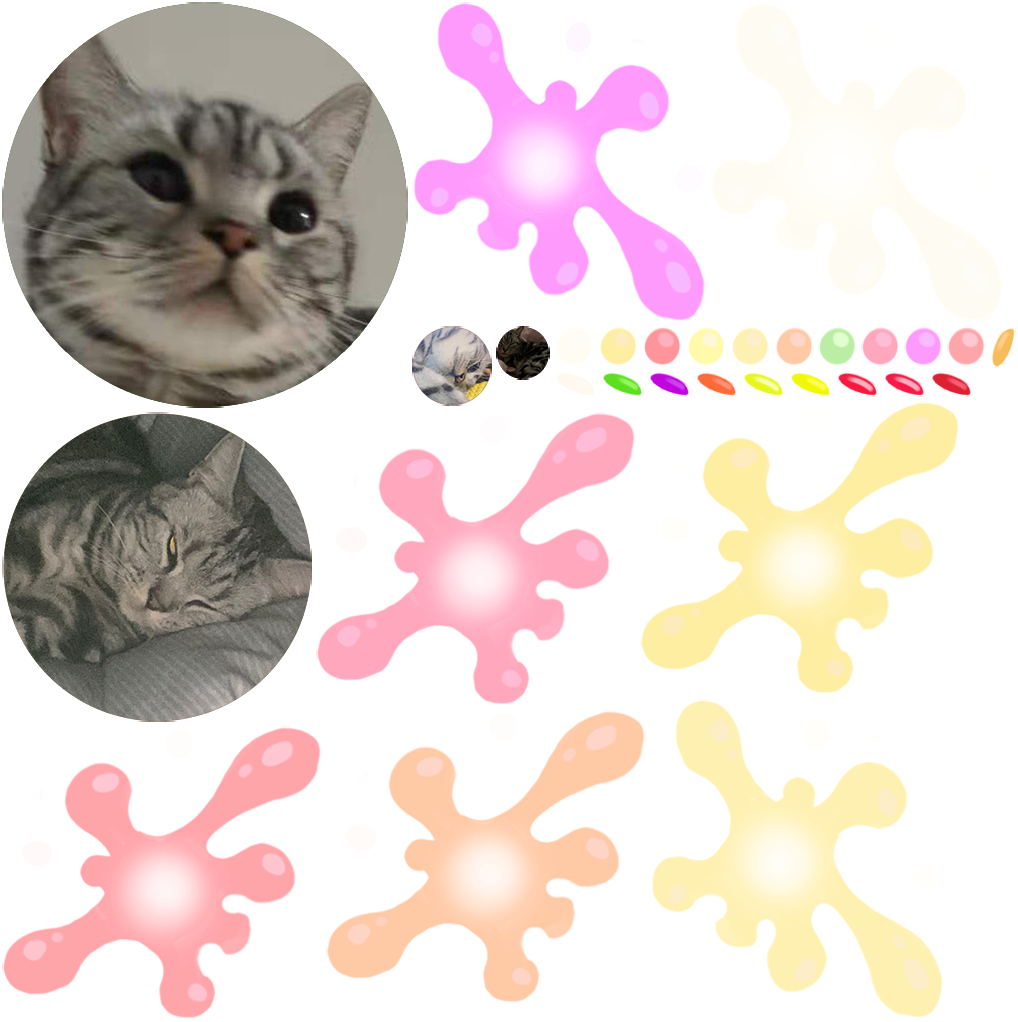
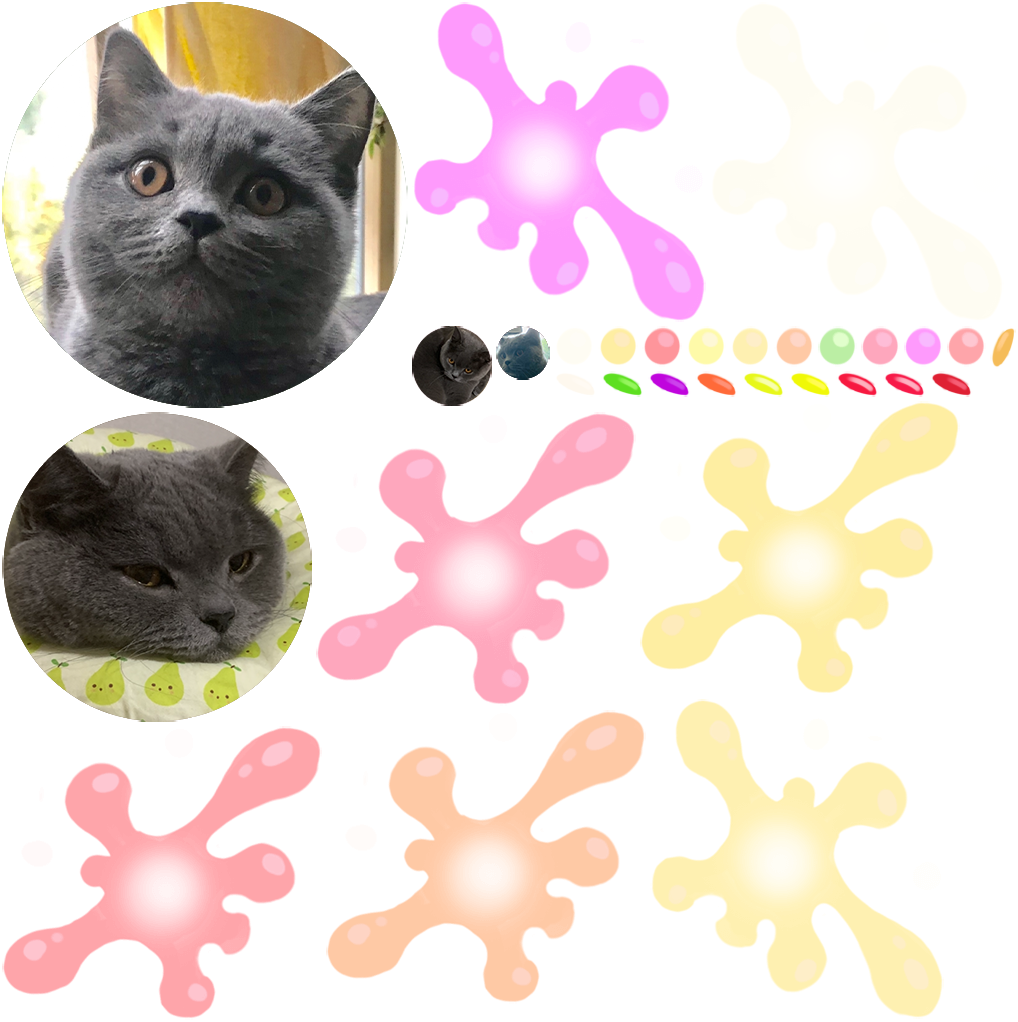
mimimimimimimi

Changed region(s): [[0.0, 0.0, 0.4263, 0.728], [0.3959, 0.3033, 0.5481, 0.3943]]

diff --git a/Downloads/sannaha.github.io-master/index.html b/Downloads/sannaha.github.io-master/index.html
@@ -4,7 +4,7 @@
 <head>
     <meta charset="utf-8">
 
-    <title>合成大小猫</title>
+    <title>咪一米养成记</title>
 
     <!--http://www.html5rocks.com/en/mobile/mobifying/-->
     <meta name="viewport" content="width=device-width,user-scalable=no,initial-scale=1, minimum-scale=1,maximum-scale=1" />
@@ -109,7 +109,7 @@
             //        console.log("window.navigator.language",window.navigator.language);
 
             if (window.navigator.language == "zh-CN" || window.navigator.language == "zh-cn") {
-                document.title = "合成大小猫";
+                document.title = "咪一米养成记";
             } 
 
 

diff --git a/Downloads/sannaha.github.io-master/README.md b/Downloads/sannaha.github.io-master/README.md
@@ -1,4 +1,3 @@
-# 合成大欧派（P家） #
+# 合成大小猫 #
 
-合成大西瓜的P家版本。合成顺序为：暗妃鲁咪蕾->古守血游->真白花音->铃宫铃->椎名菜羽->有栖Mana->乙女音->绯赤艾莉欧->花园Serena->梦乃栞->紫桃爱音。如对合成顺序有异议，请提交申请与我们一同迫害。
-
+对某只无辜小猫的迫害
